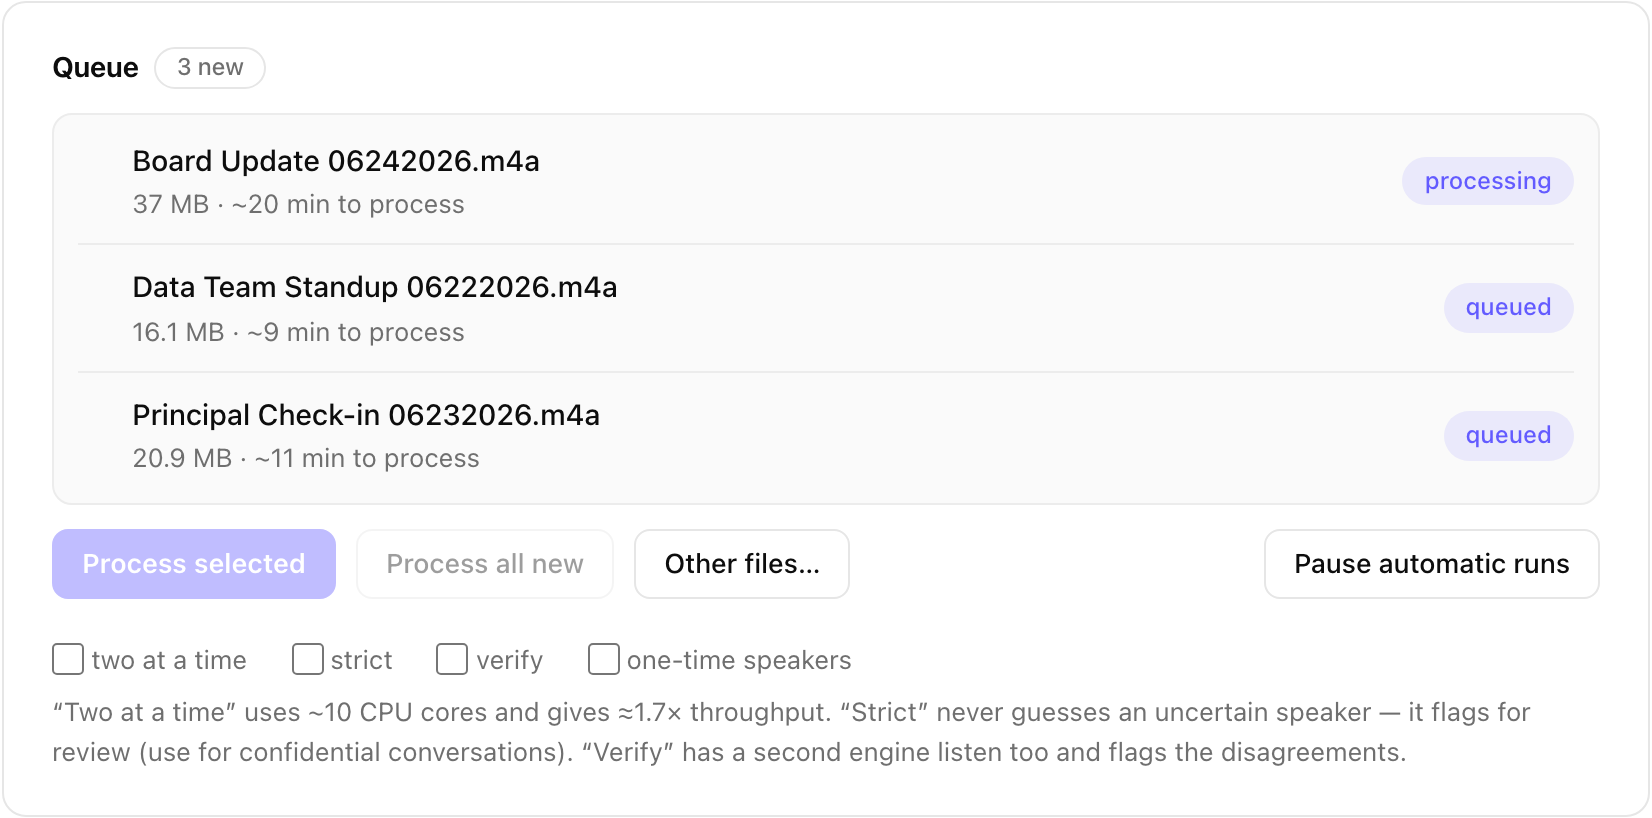
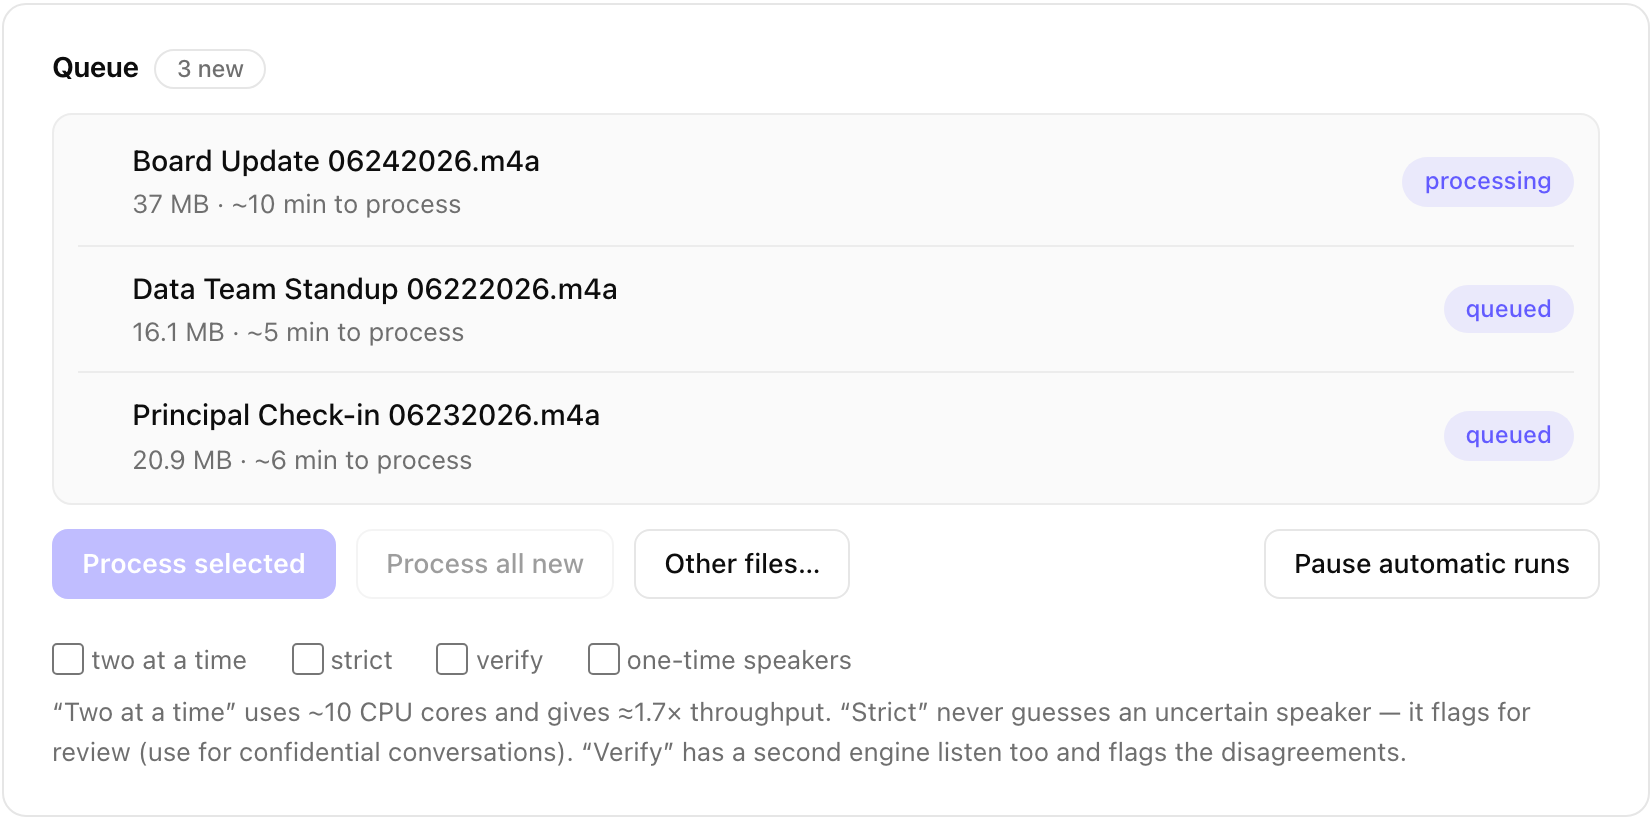
README: refresh every screenshot against the current UI
New who-is-this shot (per-meeting clips + name autocomplete); panel now
shows the per-stage countdown; transcripts show the sort toggle; wide
keys dialog with the Assistant section; text updated for per-file
summaries, alphabetical roster, and library sorting.

diff --git a/README.md b/README.md
@@ -62,10 +62,14 @@ per-run options:
 
 <img src="docs/img/queue.png" width="826" alt="Queue with per-run options">
 
-While a run is live you get per-stage progress with a time estimate
-calibrated to your machine's measured throughput (visible in the panel shot
-above), and a Stop button that kills the whole process group and verifies
-nothing is left. Runs are idempotent by manifest: the iCloud original is
+While a run is live the panel shows exactly where the file is and how long
+each step is taking: finished stages with their actual times, the current
+stage as elapsed against expected, and the stages still ahead with their own
+estimates, so transcription and speaker separation are never blended into
+one blurry number (visible in the panel shot above). Estimates count down in
+real time, calibrated from your machine's measured throughput on past runs,
+and a Stop button kills the whole process group and verifies nothing is
+left. Runs are idempotent by manifest: the iCloud original is
 deleted only after outputs are verified, and a run interrupted mid-file
 simply re-runs that file next time.
 
@@ -114,12 +118,23 @@ stable numbers across meetings ("Speaker 2" is the same person everywhere),
 and matching is open-set with a score-plus-margin gate: a stranger near an
 enrolled voice never inherits that person's name, and interviews stay
 honest. One-time voices you chose to hide restore with one click from the
-"n hidden" toggle. The list scrolls as the roster grows; a search box finds
+"n hidden" toggle. The roster lists alphabetically by first name with
+unnamed voices at the bottom and scrolls as it grows; a search box finds
 any speaker by name (or, for unknown voices, by the meeting they were heard
 in), and an "unidentified only" filter shows just the voices still waiting
 for a name:
 
 <img src="docs/img/speakers.png" width="826" alt="Speaker library with search and the unidentified-only filter">
+
+"Who is this?" makes the identification itself easy: one clip from each
+meeting the voice was heard in, labeled with its source, playing up to 45
+seconds of that person's longest turn, and when a clip alone is not enough,
+Read opens the transcript at that exact moment so you can hear the
+conversation around it. The name box suggests the closest enrolled names as
+you type, because typing an existing name merges this voice into that
+person:
+
+<img src="docs/img/who-is-this.png" width="468" alt="Who is this? dialog with a voice clip per meeting and name suggestions">
 
 The ⋯ menu on any speaker manages the profile. Play any voice sample (each
 traceable to its source meeting), and when one is wrong, either remove it (a
@@ -140,10 +155,10 @@ registry write keeps a rolling backup.
 
 ### 4 · Summaries, next steps, and Ask
 
-At the end of every run, Qwen3-8B (4-bit, on-device) drafts each meeting's
-brief summary and extracts **Committed next steps**: every stated commitment
-as "[Speaker] will *action* by *date*". Both show in the Summary dialog and
-in the hover tooltip on any meeting row:
+The moment a recording finishes processing, Qwen3-8B (4-bit, on-device)
+drafts its brief summary and extracts **Committed next steps**: every stated
+commitment as "[Speaker] will *action* by *date*". Both show in the Summary
+dialog and in the hover tooltip on any meeting row:
 
 <img src="docs/img/summary.png" width="468" alt="Summary dialog with committed next steps">
 
@@ -166,9 +181,9 @@ uploads audio.
 
 ### 5 · The library: search and organize
 
-The library groups meetings by month with their date, length, attendees,
-review chips, and summary snippet inline; Read, Summary, and Ask are one
-click from any row:
+The library lists meetings by month or, with the sort toggle, alphabetically
+by title, showing each meeting's date, length, attendees, review chips, and
+summary snippet inline; Read, Summary, and Ask are one click from any row:
 
 <img src="docs/img/transcripts.png" width="826" alt="Meeting library">
 
@@ -221,7 +236,7 @@ never upload. Keys live in `stt.env` (git-ignored, `chmod 600`) and are
 never shown again; a saved key can be replaced by pasting a new one or
 removed with its Clear button:
 
-<img src="docs/img/cloud-keys.png" width="468" alt="Cloud transcription keys with a saved key and its Clear button">
+<img src="docs/img/cloud-keys.png" width="708" alt="Cloud transcription and assistant keys with a saved key and its Clear button">
 
 ## Light and dark
 
